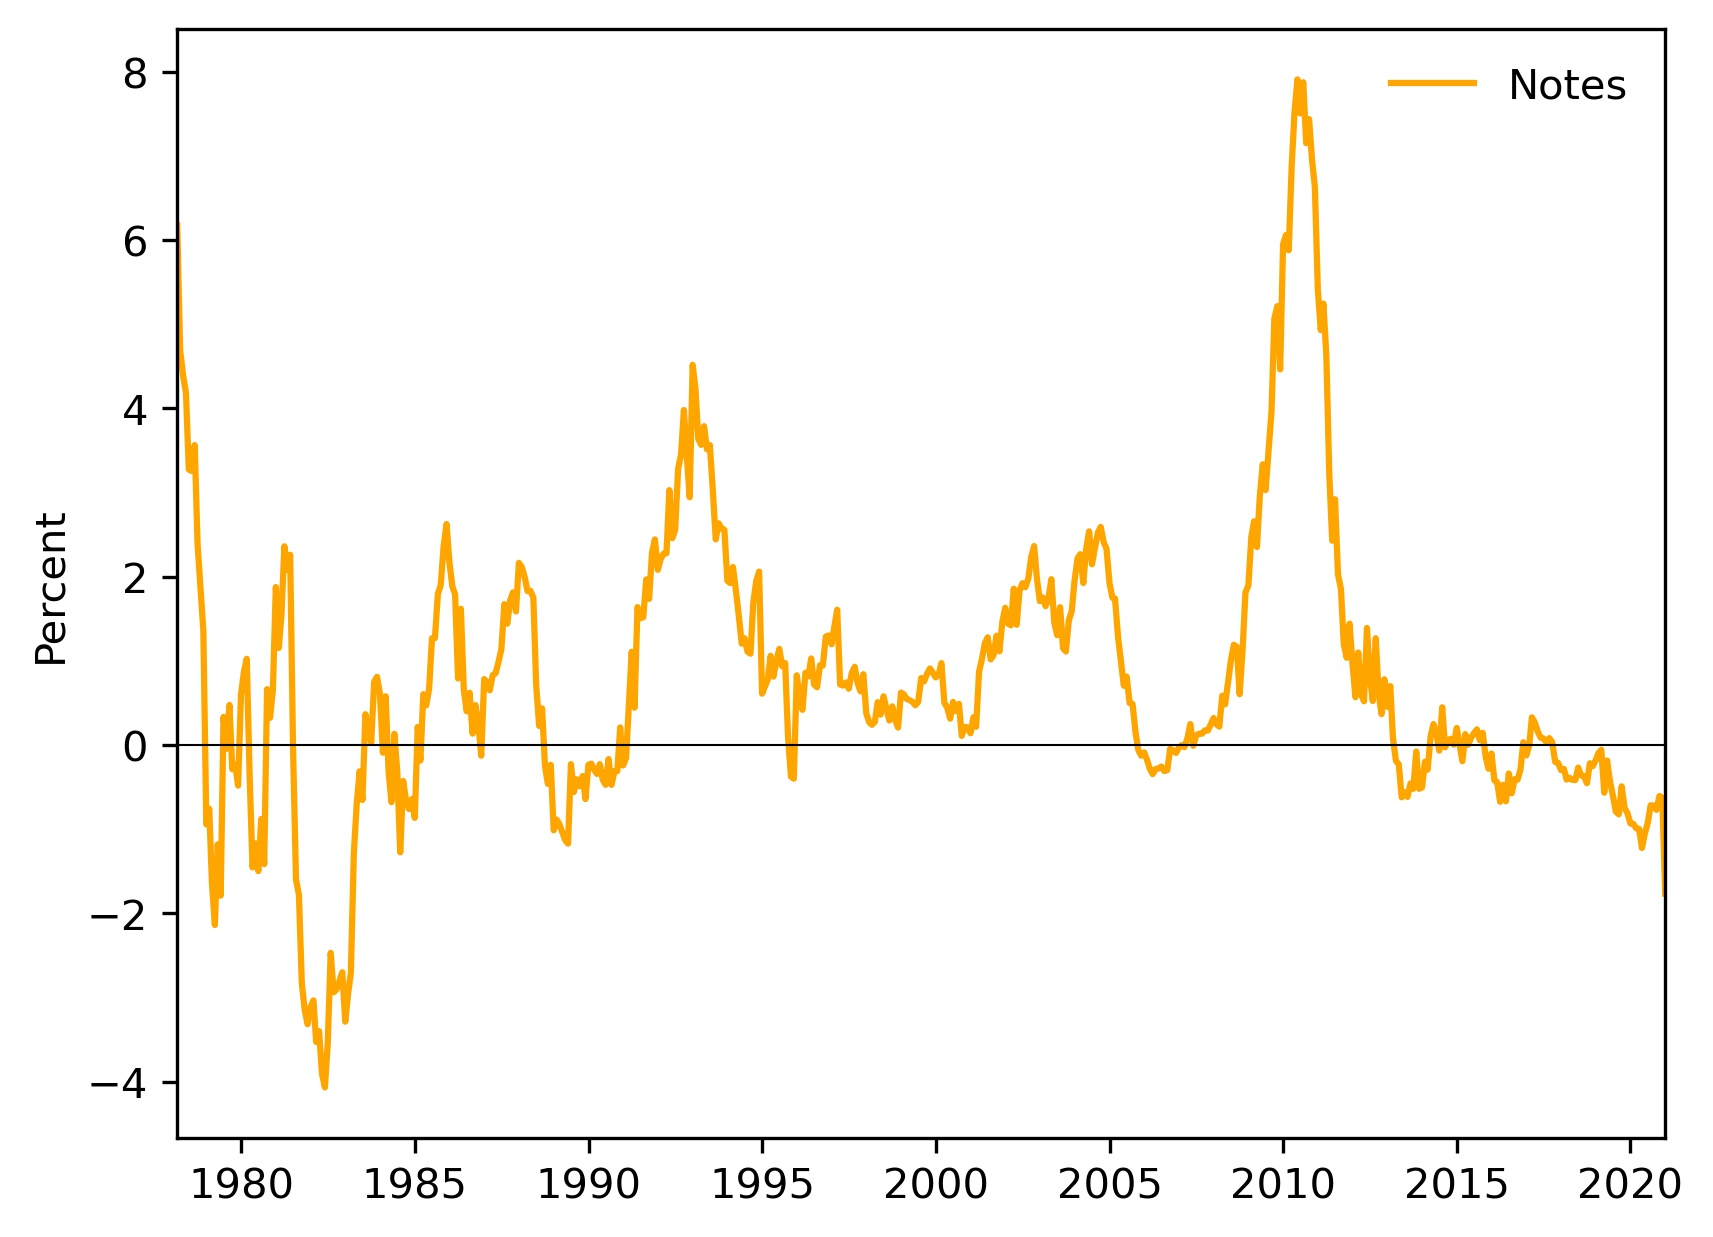
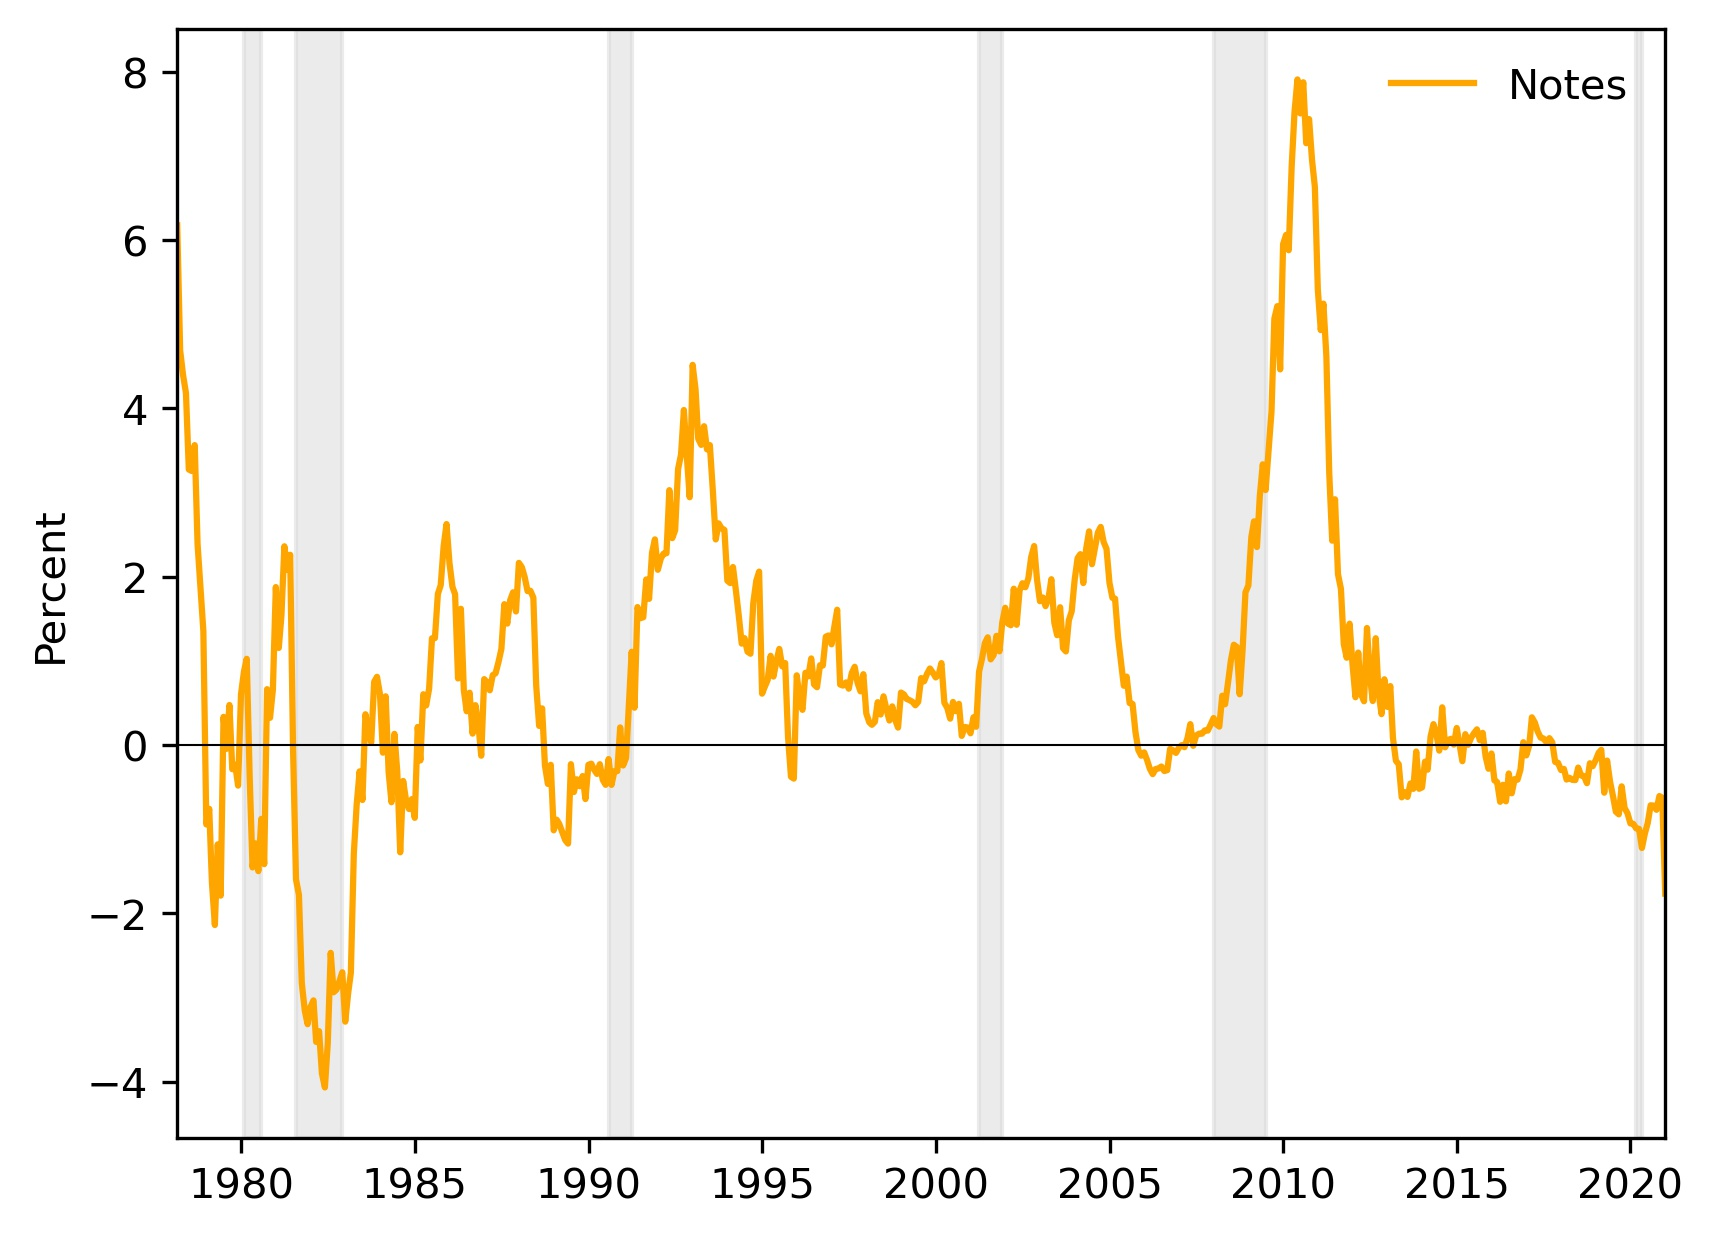
Adjustments to plots

diff --git a/Analysis/Contribution_Analysis.py b/Analysis/Contribution_Analysis.py
@@ -27,8 +27,8 @@ UC_t0 = UC_t1.shift(1)
 QT_t0 = QT_t1.shift(1)
 
 ## Additional Time Series Data
-start = datetime.datetime(1984,1,1)
-end = datetime.datetime(1986,12,31)
+start = datetime.datetime(1977,1,1)
+end = datetime.datetime(2020,12,31)
 ## Recession data from FRED 
 rec_data = (web.DataReader(['USREC'], 'fred', start, end))
 
@@ -185,7 +185,9 @@ plt.show()
 ## GROWTH RATE PLOTS #####
 
 fig, ax = plt.subplots()
-
+### Recession dates
+for rec_start, rec_end in zip(recs_start, recs_end):
+    ax.axvspan(rec_start, rec_end, color='0.85', alpha=0.5)
 for i, column in enumerate(GROWTH_MS_TYPE.columns):
     ax.plot(GROWTH_MS_TYPE.index, GROWTH_MS_TYPE[column], label=column, color=colors[i])
 ax.axhline(0, color='black', linewidth=0.5)
@@ -201,6 +203,9 @@ plt.show()
 
 for i, column in enumerate(GROWTH_MS_TYPE.columns):
     fig, ax = plt.subplots()
+    ### Recession dates
+    for rec_start, rec_end in zip(recs_start, recs_end):
+        ax.axvspan(rec_start, rec_end, color='0.85', alpha=0.5)
     ax.plot(GROWTH_MS_TYPE.index, GROWTH_MS_TYPE[column], label=column, color=colors[i])
     ax.axhline(0, color='black', linewidth=0.5)
     plt.xlim(datetime.datetime(1978,2,28), datetime.datetime(2020,12,31))
@@ -213,7 +218,9 @@ for i, column in enumerate(GROWTH_MS_TYPE.columns):
 
 ## INDEX LEVEL PLOTS #####
 fig, ax = plt.subplots()
-
+### Recession dates
+for rec_start, rec_end in zip(recs_start, recs_end):
+    ax.axvspan(rec_start, rec_end, color='0.85', alpha=0.5)
 for i, column in enumerate(INDEX_MS_TYPE.columns):
     ax.plot(INDEX_MS_TYPE.index, INDEX_MS_TYPE[column], label=column, color=colors[i])
 ax.axhline(100, color='black', linewidth=0.5)
